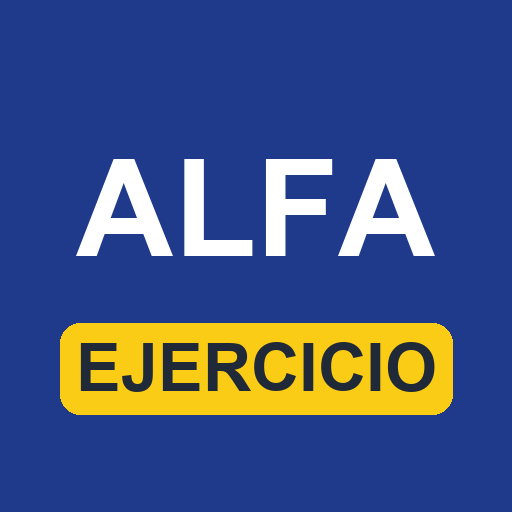
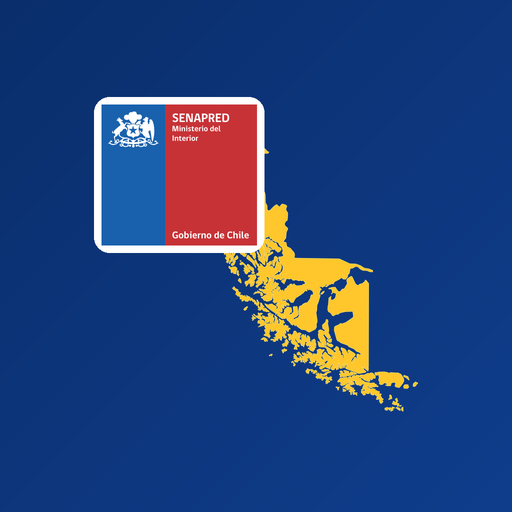
Version demo-0.5.5: reglas revisadas por la Direccion Regional, correlativo por anio, nombre Informe Alfa App e icono nuevo

diff --git a/js/app.js b/js/app.js
@@ -79,6 +79,7 @@
       version: CONFIG.version_app,
       modo: 'ejercicio',
       numero: null,
+      anio: null,
       amplia: null,
       creado: new Date().toISOString(),
       elaborador: cr ? { nivel: cr.nivel, provincia: cr.provincia || '' } : { nivel: '', provincia: '' },
@@ -137,6 +138,7 @@
     if (inf.amplia === undefined) inf.amplia = null;
     if (inf.firmante === undefined) inf.firmante = null;
     if (inf.sello === undefined) inf.sello = null;
+    if (inf.anio === undefined) inf.anio = null;
     inf.responsable = Object.assign({ nombre: CONFIG.responsable_ejercicio.nombre, cargo: '', institucion: '' }, inf.responsable || {});
     actualizarProvincia(inf);
     actualizarResponsable(inf);
@@ -161,8 +163,8 @@
   function guardar() { if (informe && !informe.elaboracion) Almacen.guardarBorrador(informe); }
 
   // ---------- numeración ----------
-  function siguienteLetra(base) {
-    const usadas = Almacen.leerHistorial().filter(h => h.numero && h.numero.startsWith(base + '-')).map(h => h.numero.slice(base.length + 1));
+  function siguienteLetra(base, anio) {
+    const usadas = Almacen.leerHistorial().filter(h => h.numero && h.numero.startsWith(base + '-') && (!anio || anioDe(h) === anio)).map(h => h.numero.slice(base.length + 1));
     let i = 0;
     while (i < LETRAS.length - 1 && usadas.includes(LETRAS[i])) i++;
     return LETRAS[i];
@@ -172,12 +174,22 @@
   // evento o de la misma comuna pueden haberse emitido desde la planilla o desde otro teléfono.
   const PREFIJO = () => CONFIG.numero.prefijo;
   const digitosDe = numero => { const m = /-(\d+)(?:-[A-Z])?$/.exec(String(numero || '')); return m ? parseInt(m[1], 10) : null; };
+  // El correlativo se reinicia cada año y no lleva el año (D-53): cada informe guarda el año de su correlativo.
+  // Un informe nuevo toma el año de hoy; una ampliación hereda el del informe base aunque su fecha sea del año siguiente.
+  const anioActual = () => new Date().getFullYear();
+  const anioDe = inf => (inf && inf.anio) || (inf && inf.elaboracion && inf.elaboracion.fecha ? parseInt(String(inf.elaboracion.fecha).slice(0, 4), 10) : null);
+  function anioElegido() {
+    if (informe.amplia && informe.amplia.externa) { const a = parseInt(informe.numeroManual && informe.numeroManual.anio, 10); return Number.isInteger(a) ? a : anioActual(); }
+    if (informe.amplia && informe.anio) return informe.anio;
+    return anioActual();
+  }
   function propuestaNumero() {
+    const anio = anioElegido();
     if (informe.amplia && informe.amplia.base) {
-      return { n: digitosDe(informe.amplia.base), letra: siguienteLetra(informe.amplia.base), baseFija: !informe.amplia.externa };
+      return { n: digitosDe(informe.amplia.base), letra: siguienteLetra(informe.amplia.base, anio), baseFija: !informe.amplia.externa, anio };
     }
-    const n = digitosDe(Almacen.numeroPrevisto(PREFIJO()));
-    return { n, letra: informe.amplia ? siguienteLetra(`${PREFIJO()}-${n}`) : null, baseFija: false };
+    const n = digitosDe(Almacen.numeroPrevisto(PREFIJO(), anio));
+    return { n, letra: informe.amplia ? siguienteLetra(`${PREFIJO()}-${n}`, anio) : null, baseFija: false, anio };
   }
   function numeroPropuestoTexto(p) { return `${PREFIJO()}-${p.n}${informe.amplia ? '-' + (p.letra || 'A') : ''}`; }
   function numeroElegido() {
@@ -192,7 +204,9 @@
     const e = numeroElegido();
     if (!e.numero) { toast('Escribe el número del informe: un entero mayor que cero.', 5000); return null; }
     if (informe.amplia && !/^[A-Z]$/.test(e.letra)) { toast('Elige la letra de la ampliación.', 5000); return null; }
-    if (Almacen.leerHistorial().some(h => h.numero === e.numero)) { toast(`Ya existe el informe ${e.numero} en este teléfono. Usa otro número o letra.`, 7000); return null; }
+    const anio = anioElegido();
+    if (informe.amplia && informe.amplia.externa && !(anio >= 2000 && anio <= 2100)) { toast('Escribe el año del informe que amplías, con cuatro cifras.', 5000); return null; }
+    if (Almacen.leerHistorial().some(h => h.numero === e.numero && anioDe(h) === anio)) { toast(`Ya existe el informe ${e.numero} del año ${anio} en este teléfono. Usa otro número o letra.`, 7000); return null; }
     const propuesto = numeroPropuestoTexto(propuestaNumero());
     if (e.numero !== propuesto && !(informe.amplia && informe.amplia.externa)) {
       if (!confirm(`El número propuesto era ${propuesto} y vas a usar ${e.numero}.\n\nHazlo solo si ese número corresponde a la numeración real de tu institución, por ejemplo porque otros Alfas se emitieron desde la planilla o desde otro teléfono.\n\n¿Continuar con ${e.numero}?`)) return null;
@@ -431,11 +445,12 @@
     }
     if (el.id === 'in-amplia-externa') {
       if (el.checked) {
-        informe.amplia = { de: '', base: '', fecha: null, hora: null, anterior: null, externa: true };
-        informe.numeroManual = { n: informe.numeroManual ? informe.numeroManual.n : null, letra: 'A' };
+        informe.amplia = { de: '', base: '', fecha: null, hora: null, anterior: null, externa: true, anio: anioActual() };
+        informe.numeroManual = { n: informe.numeroManual ? informe.numeroManual.n : null, letra: 'A', anio: anioActual() };
+        informe.anio = anioActual();
       } else {
-        informe.amplia = null;
-        if (informe.numeroManual) informe.numeroManual.letra = null;
+        informe.amplia = null; informe.anio = null;
+        if (informe.numeroManual) { informe.numeroManual.letra = null; delete informe.numeroManual.anio; }
       }
       guardar(); renderRevision(); cargarValores();
       return;
@@ -454,6 +469,11 @@
       informe.amplia.base = Number.isInteger(n) && n > 0 ? `${PREFIJO()}-${n}` : '';
       informe.amplia.de = informe.amplia.base;
     }
+    if (ruta === 'numeroManual.anio' && informe.amplia && informe.amplia.externa) {  // y el año del correlativo también
+      const a = parseInt(v, 10);
+      informe.amplia.anio = Number.isInteger(a) ? a : null; informe.anio = informe.amplia.anio;
+    }
+    if ((ruta === 'numeroManual.n' || ruta === 'numeroManual.anio') && pantalla === 'revision') refrescarObservaciones();
     if (ruta === 'evento.otro') actualizarSeleccionEvento();
     if (ruta === 'lugar.lat' || ruta === 'lugar.lon') { informe.lugar.origen = 'manual'; informe.lugar.precision = null; $('#gps-estado').textContent = 'Coordenadas escritas a mano.'; }
     if (ruta.endsWith('.hayAlbergue')) { const bloque = $(`[data-albergue="${ruta.split('.')[1]}"]`); if (bloque) bloque.hidden = !v; }
@@ -761,6 +781,14 @@
       <p class="ayuda">En el PDF, los valores que cambiaron en las secciones 4 y 5 van subrayados y la lista de cambios se imprime en Observaciones.</p></section>`;
   }
 
+  // Vuelve a dibujar solo la sección 9 de la revisión, cuando cambian datos que se reflejan en Observaciones
+  function refrescarObservaciones() {
+    const sec = $$('#revision-contenido .rev-seccion').find(s => { const h = s.querySelector('h3'); return h && h.textContent.startsWith('9. Observaciones'); });
+    if (!sec) return;
+    const S = Reglas.textosSecciones(informe, CONFIG);
+    sec.innerHTML = '<h3>9. Observaciones</h3>' + (S.observaciones.length ? S.observaciones.map(x => `<p>${esc(x)}</p>`).join('') : '<p class="vacio">sin indicar</p>');
+  }
+
   // Número del informe: propuesto por el teléfono y editable (número y, en ampliaciones, letra)
   function seccionNumero() {
     const p = propuestaNumero();
@@ -768,6 +796,8 @@
     if (informe.amplia && !informe.numeroManual.letra) informe.numeroManual.letra = p.letra || 'A';
     const esAmpliacion = !!informe.amplia;
     const desdeHistorial = esAmpliacion && !informe.amplia.externa;
+    const externa = esAmpliacion && !!informe.amplia.externa;
+    if (externa && !informe.numeroManual.anio) informe.numeroManual.anio = anioActual();
     const letras = LETRAS.split('').map(l => `<option value="${l}">${l}</option>`).join('');
     return `<section class="rev-seccion numero"><h3>Número del informe</h3>
       ${desdeHistorial ? `<p>Ampliación de <strong>${esc(informe.amplia.de)}</strong>${informe.amplia.fecha ? ' (del ' + esc(fmtFecha(informe.amplia.fecha)) + ' ' + esc(informe.amplia.hora || '') + ')' : ''}. El número base es el del informe que amplías; elige la letra.</p>` : ''}
@@ -776,9 +806,11 @@
         <input type="number" min="1" step="1" inputmode="numeric" data-ruta="numeroManual.n" ${desdeHistorial ? 'disabled' : ''} aria-label="Número del informe">
         ${esAmpliacion ? `<span class="prefijo">-</span><select data-ruta="numeroManual.letra" aria-label="Letra de la ampliación">${letras}</select>` : ''}
       </div>
-      <p class="ayuda">Propuesto por este teléfono: <strong>${esc(numeroPropuestoTexto(p))}</strong>. Cámbialo solo si ese número ya se usó en un Alfa emitido desde la planilla o desde otro teléfono. Al firmar, la app comprueba que no exista en este teléfono y ajusta su contador.</p>
+      <p class="ayuda">Propuesto por este teléfono: <strong>${esc(numeroPropuestoTexto(p))}</strong>, correlativo del año ${esc(p.anio)}. Cámbialo solo si ese número ya se usó en un Alfa emitido desde la planilla o desde otro teléfono. Al firmar, la app comprueba que no exista en este teléfono para ese año y ajusta su contador. El correlativo se reinicia cada año y no lleva el año: el informe se identifica por su fecha.</p>
       ${desdeHistorial ? '' : `<label class="conmutador"><input type="checkbox" id="in-amplia-externa" ${esAmpliacion ? 'checked' : ''}><span>Es ampliación de un informe anterior que no está en este teléfono (por ejemplo, hecho en la planilla)</span></label>
-      ${esAmpliacion ? '<p class="ayuda">Escribe arriba el número del informe que amplías y elige la letra que corresponde. El PDF dirá que es una ampliación de ese informe.</p>' : ''}`}
+      ${esAmpliacion ? `<p class="ayuda">Escribe arriba el número del informe que amplías y elige la letra que corresponde. El PDF dirá que es una ampliación de ese informe.</p>
+      <label class="campo campo-anio">Año del informe que amplías<input type="number" min="2000" max="2100" step="1" inputmode="numeric" data-ruta="numeroManual.anio"></label>
+      <p class="ayuda">Si el evento empezó el año pasado, pon ese año: la ampliación conserva el correlativo del año en que empezó.</p>` : ''}`}
       <p class="ayuda">Al firmar, la app vuelve a comprobar todas las reglas y genera el PDF en este dispositivo. Si hay mucho texto, la hoja se alarga hacia abajo.</p></section>`;
   }
 
@@ -885,8 +917,9 @@
     try {
       informe.elaboracion = { fecha: hoyISO(), hora: ahoraHHMM(), iso: new Date().toISOString() };
       informe.numero = numeroDefinitivo;
-      if (informe.amplia && informe.amplia.externa) { informe.amplia.base = `${PREFIJO()}-${numeroElegido().n}`; informe.amplia.de = informe.amplia.base; }
-      Almacen.ajustarCorrelativo(numeroElegido().n);
+      informe.anio = anioElegido();
+      if (informe.amplia && informe.amplia.externa) { informe.amplia.base = `${PREFIJO()}-${numeroElegido().n}`; informe.amplia.de = informe.amplia.base; informe.amplia.anio = informe.anio; }
+      Almacen.ajustarCorrelativo(numeroElegido().n, informe.anio);
       delete informe.numeroManual;   // es un dato de la pantalla, no del informe
       await sellarInforme(informe, cred);
       ultimoDatos = DatosAlfa.construir(informe, Reglas.totales(informe), CONFIG);
@@ -897,6 +930,7 @@
     } catch (e) {
       console.error(e);
       informe.elaboracion = null; informe.sello = null; informe.numero = null; informe.numeroManual = manual;
+      if (!(informe.amplia && !informe.amplia.externa)) informe.anio = null;
       toast('No se pudo generar el PDF: ' + e.message, 7000);
       btn.disabled = false; btn.textContent = 'Firmar y generar el PDF';
     }
@@ -1048,6 +1082,7 @@
     if (anterior.amplia) delete anterior.amplia.anterior;  // solo un nivel hacia atrás
     copia.amplia = { de: h.numero, base: h.amplia && h.amplia.base ? h.amplia.base : h.numero, fecha: h.elaboracion && h.elaboracion.fecha, hora: h.elaboracion && h.elaboracion.hora, anterior };
     copia.numero = null;
+    copia.anio = anioDe(h);   // la ampliación conserva el correlativo del año en que empezó el evento
     copia.elaboracion = null;
     copia.firmante = null;
     copia.sello = null;
@@ -1107,6 +1142,7 @@
       if (h !== obj.huella) { toast('No se pudo importar: el archivo fue modificado después de generarse (la huella no coincide).', 8000); return; }
       const inf = normalizar(obj.informe);
       if (!inf.elaboracion || !inf.numero) { toast('El archivo no corresponde a un informe firmado.', 6000); return; }
+      if (!inf.anio) inf.anio = anioDe(inf);   // informes de versiones anteriores a la 0.5.5
       inf.importado = { fecha: new Date().toISOString(), app: obj.app || '' };
       const hist = Almacen.leerHistorial();
       const idx = hist.findIndex(x => x.numero === inf.numero);

diff --git a/js/datos_alfa.js b/js/datos_alfa.js
@@ -42,8 +42,10 @@
     const cut = c => { const x = ((config && config.comunas) || []).find(k => k.comuna === c); return x ? x.cut : null; };
     const num = v => (v === '' || v == null) ? null : (Number.isFinite(Number(String(v).replace(',', '.'))) ? Number(String(v).replace(',', '.')) : null);
     const base = informe.amplia && informe.amplia.base ? informe.amplia.base : informe.numero;
+    const E0 = informe.elaboracion || {};
+    const anioCorr = informe.anio || (E0.fecha ? parseInt(String(E0.fecha).slice(0, 4), 10) : null);   // el correlativo se reinicia cada año (D-53)
     const evento = {
-      id_evento: base, region: id.region || '', provincia: id.provincia || '',
+      id_evento: base, anio_correlativo: anioCorr, region: id.region || '', provincia: id.provincia || '',
       comunas: comunas.map(c => ({ comuna: c, cut: cut(c) })),
       tipo_evento: ev.tipo || '', tipo_evento_otro: ev.otro || '',
       fecha_inicio: oc.fecha || '', hora_inicio: oc.hora || '',
@@ -51,7 +53,7 @@
     };
     const R = informe.responsable || {}, E = informe.elaboracion || {};
     const inf = {
-      numero: informe.numero, id_evento: base,
+      numero: informe.numero, id_evento: base, anio_correlativo: anioCorr,
       letra: informe.amplia && informe.numero ? String(informe.numero).slice(String(base).length + 1) : '',
       amplia_de: informe.amplia ? informe.amplia.de : null,
       modo: informe.modo || 'ejercicio', nivel_elaborador: (informe.elaborador && informe.elaborador.nivel) || '',
@@ -158,7 +160,8 @@
     const id = inf.identificacion || {}, oc = inf.ocurrencia || {}, ev = inf.evento || {}, R = inf.responsable || {}, E = inf.elaboracion || {};
     const total = k => (t[k] && t[k].total != null) ? t[k].total : null;
     return {
-      numero: inf.numero, modo: inf.modo || archivo.modo || '', comunas: comunasDe(inf).join(', '), provincia: id.provincia || '', region: id.region || '',
+      numero: inf.numero, anio_correlativo: inf.anio || (E.fecha ? parseInt(String(E.fecha).slice(0, 4), 10) : null),
+      modo: inf.modo || archivo.modo || '', comunas: comunasDe(inf).join(', '), provincia: id.provincia || '', region: id.region || '',
       tipo_evento: ev.tipo === 'OTRO' ? ('Otro: ' + texto(ev.otro)) : (ev.tipo || ''),
       fecha_inicio: oc.fecha || '', hora_inicio: oc.hora || '',
       fecha_elaboracion: E.fecha || '', hora_elaboracion: E.hora || '',

diff --git a/js/almacen.js b/js/almacen.js
@@ -4,7 +4,8 @@ const Almacen = (() => {
   'use strict';
   const K = {
     borrador: 'alfaDemo.borrador',
-    correlativo: 'alfaDemo.correlativoEJ',
+    correlativo: 'alfaDemo.correlativoEJ',      // versiones anteriores a la 0.5.5: un solo contador
+    correlativos: 'alfaDemo.correlativos',     // desde la 0.5.5: un contador por año
     historial: 'alfaDemo.historial',
     credencial: 'alfaDemo.credencial'
   };
@@ -28,6 +29,17 @@ const Almacen = (() => {
     }
   }
 
+  const anioHoy = () => new Date().getFullYear();
+  function contadores() {
+    const mapa = leer(K.correlativos, null);
+    if (mapa && typeof mapa === 'object') return mapa;
+    const antiguo = leer(K.correlativo, 0) | 0;   // el contador único de las versiones anteriores vale para el año en curso
+    const nuevo = {};
+    if (antiguo > 0) nuevo[String(anioHoy())] = antiguo;
+    return nuevo;
+  }
+  function contador(anio) { return contadores()[String(anio || anioHoy())] | 0; }
+
   return {
     disponible() {
       try {
@@ -44,10 +56,13 @@ const Almacen = (() => {
 
     // El número se asigna recién al firmar, para que un borrador abandonado no consuma correlativo.
     // El funcionario puede corregir el número propuesto; el contador salta al mayor usado (D-52).
-    numeroPrevisto(prefijo) { return `${prefijo}-${(leer(K.correlativo, 0) | 0) + 1}`; },
-    ajustarCorrelativo(n) {
-      const actual = leer(K.correlativo, 0) | 0;
-      if (Number.isInteger(n) && n > actual) escribir(K.correlativo, n);
+    // Hay un contador por año, porque el correlativo se reinicia cada año (D-53).
+    numeroPrevisto(prefijo, anio) { return `${prefijo}-${contador(anio) + 1}`; },
+    ajustarCorrelativo(n, anio) {
+      const mapa = contadores();
+      const clave = String(anio || anioHoy());
+      const actual = mapa[clave] | 0;
+      if (Number.isInteger(n) && n > actual) { mapa[clave] = n; escribir(K.correlativos, mapa); }
       return Math.max(actual, n | 0);
     },
 

diff --git a/js/reglas.js b/js/reglas.js
@@ -219,6 +219,10 @@ const Reglas = (() => {
       const cambios = cambiosTexto(informe);
       if (cambios) observaciones.push(cambios);
     }
+    // El correlativo se reinicia cada año y no lleva el año; si el informe continúa un evento del año anterior, se aclara (D-53)
+    // Antes de firmar no hay fecha de elaboración: se usa el año de hoy, que es el que tendrá el informe
+    const anioCorr = informe.anio, anioFecha = informe.elaboracion && informe.elaboracion.fecha ? parseInt(String(informe.elaboracion.fecha).slice(0, 4), 10) : new Date().getFullYear();
+    if (anioCorr && anioFecha && anioCorr !== anioFecha) observaciones.push(`Correlativo del año ${anioCorr}: el evento comenzó ese año y este informe lo continúa.`);
     const lugar = lugarTexto(informe);
     if (lugar) observaciones.push(lugar);
     const J = informe.justificaciones || {};
@@ -328,10 +332,9 @@ const Reglas = (() => {
             }
           }
         }
-        if (viv > 0 && occ === 0 && c.ocupantes_cuentan_como === 'damnificadas') hallazgo(regla('SIN_OCUPANTES'), { viviendas: viv, condicion: cond }, { sufijo: c.id });
-        if (viv > 0 && occ / viv > P.umbral_personas_por_vivienda) {
-          hallazgo(regla('PROMEDIO_INUSUAL'), { viviendas: viv, ocupantes: occ, condicion: cond, promedio: (occ / viv).toFixed(1).replace('.', ','), umbral: P.umbral_personas_por_vivienda }, { sufijo: c.id });
-        }
+        // Sin regla para viviendas sin ocupantes ni para el promedio de personas por vivienda (D-54, 2026-10-08):
+        // hay viviendas dañadas o destruidas sin habitantes (abandonadas, dueños ausentes) y viviendas colectivas o
+        // con varias familias. Las dos reglas anteriores se retiraron por indicación de la Dirección Regional.
       }
     }
 

diff --git a/index.html b/index.html
@@ -3,8 +3,8 @@
 <head>
   <meta charset="utf-8">
   <meta name="viewport" content="width=device-width, initial-scale=1, viewport-fit=cover">
-  <title>Informe Alfa – Demo de ejercicio</title>
-  <meta name="description" content="Demo del Sprint 1 de la App Informe Alfa: llenado guiado en modo ejercicio, bloqueo de errores de cuadratura y PDF generado en el teléfono. Sin valor oficial.">
+  <title>Informe Alfa App</title>
+  <meta name="description" content="App Informe Alfa de la Dirección Regional de SENAPRED Magallanes: llenado guiado del Informe Alfa, bloqueo de errores de cuadratura y PDF firmado generado en el teléfono. En modo ejercicio hasta el piloto.">
   <meta name="theme-color" content="#1f3a8a">
   <link rel="manifest" href="manifest.json">
   <link rel="icon" href="img/icono-192.png" type="image/png">
@@ -12,7 +12,7 @@
   <meta name="mobile-web-app-capable" content="yes">
   <meta name="apple-mobile-web-app-capable" content="yes">
   <meta name="apple-mobile-web-app-status-bar-style" content="default">
-  <meta name="apple-mobile-web-app-title" content="Alfa EJ">
+  <meta name="apple-mobile-web-app-title" content="Informe Alfa App">
   <link rel="stylesheet" href="css/estilos.css">
 </head>
 <body>

diff --git a/datos/config.js b/datos/config.js
@@ -1,7 +1,7 @@
 // Archivo generado desde config.json por herramientas/sincronizar_config.py. No editar a mano.
 window.ALFA_CONFIG = {
   "_comentario": "Configuración de la demo (Sprint 1). Esta copia es de ejercicio: no contiene datos de personas. La dirección de destino es un correo de PRUEBA indicado por el responsable del proyecto el 2026-10-05; la dirección real de la URAT no se publica en este repositorio público para no facilitar la suplantación de informes (riesgo R-16 de la arquitectura).",
-  "version_app": "demo-0.5.4",
+  "version_app": "demo-0.5.5",
   "modo": "ejercicio",
   "destinatario": {
     "nombre": "Correo de prueba del responsable del proyecto",

diff --git a/herramientas/verificar.html b/herramientas/verificar.html
@@ -172,6 +172,7 @@
           <div class="banda-ejercicio">${s.modo === 'ejercicio' ? 'INFORME DE EJERCICIO – SIN VALOR OFICIAL' : esc(s.modo)}</div>
           <dl>
             ${fila('Número', s.numero)}
+            ${fila('Correlativo del año', s.anio_correlativo)}
             ${fila('Ampliación de', s.ampliacion_de)}
             ${fila('Comuna(s)', s.comunas)}
             ${fila('Provincia', s.provincia)}

diff --git a/sw.js b/sw.js
@@ -1,6 +1,6 @@
 /* Service worker de la demo: precarga todos los archivos para que la app abra sin señal.
    Para publicar una versión nueva, cambiar VERSION. */
-const VERSION = 'alfa-demo-v0.5.4';
+const VERSION = 'alfa-demo-v0.5.5';
 const ARCHIVOS = [
   './',
   './index.html',

diff --git a/README.md b/README.md
@@ -34,7 +34,7 @@ No contiene datos reales de personas ni de emergencias.
 | `datos/credencial_ejercicio_demo.alfacred.json` | Credencial genérica de ejercicio (versión 2), con identidad e imágenes ficticias y una clave de firma que es pública por estar en este repositorio: sirve para probar, no acredita a nadie. Sellada con la clave de la Dirección Regional |
 | `sw.js` | Service worker: precarga todos los archivos para funcionar sin conexión |
 | `manifest.json` | Datos de instalación (nombre, íconos, colores) |
-| `datos/reglas.json` | Catálogo de elementos del IT-LOG-01, condiciones de vivienda, categorías de personas, organismos de respuesta, tipos de evento, reglas y casos de solución. Versión provisoria |
+| `datos/reglas.json` | Catálogo de elementos del IT-LOG-01 (Anexo N° 8), condiciones de vivienda, categorías de personas, organismos de respuesta, tipos de evento, 13 reglas y casos de solución. Criterios revisados por la Dirección Regional el 2026-10-08; validación con la URAT pendiente (ver `MINUTA_REGLAS_VALIDACION.md` en la carpeta del proyecto) |
 | `datos/config.json` | Configuración: destinatario de prueba, región y comunas, niveles de quien elabora, clave pública de la Dirección Regional para comprobar credenciales |
 | `datos/config.js` | La misma configuración en forma de script, generada por `herramientas/sincronizar_config.py`. La herramienta emisora la usa cuando se abre con doble clic, porque en ese modo el navegador no deja leer archivos JSON. No editar a mano |
 | `datos/plantilla_alfa.json` | Geometría del formato oficial (líneas, rótulos y posición de cada casilla), extraída del PDF de la REX 78 |
@@ -44,7 +44,7 @@ No contiene datos reales de personas ni de emergencias.
 | `lib/Carlito-Regular.ttf`, `lib/Carlito-Bold.ttf` | Tipografía Carlito (SIL OFL 1.1, métrica compatible con Calibri), recortada al alfabeto latino con fontTools y renombrada internamente "CarlitoAlfa" como exige la licencia para versiones modificadas. Se incrusta completa porque el recorte en tiempo de ejecución de pdf-lib dejaba glifos sin dibujar |
 | `img/logo_senapred.png` | Logo institucional, autorizado por el responsable para el formato |
 | `img/portada_mapa.svg` | Mapa de la portada: contorno de la región, Territorio Chileno Antártico y Cruz del Sur, tomados de la portada del Geoportal del Riesgo del mismo departamento y simplificados |
-| `img/` | Firma y timbre ficticios e íconos de la app, generados para la demo |
+| `img/` | Firma y timbre ficticios, e íconos de la app (logo SENAPRED sobre el azul institucional con la silueta de la región en amarillo; versiones de 180, 192 y 512 píxeles y una enmascarable para Android) |
 
 Sin paso de compilación y sin `node_modules`: se publica tal cual en cualquier sitio estático con HTTPS.
 
@@ -63,6 +63,7 @@ Sin paso de compilación y sin `node_modules`: se publica tal cual en cualquier 
 | demo-0.4.1 | 2026-10-07 | Herramienta emisora: funciona abierta con doble clic como archivo local, tomando la configuración de `datos/config.js` cuando el navegador bloquea `config.json` (E-20); el botón para generar una clave nueva queda bajo un desplegable con advertencia explícita y emitir con una clave distinta de la publicada pide confirmación; las imágenes de firma y timbre se reducen a unos 300 KB como máximo (E-21). Sin cambios en la app del teléfono |
 | demo-0.5.0 | 2026-10-07 | Sprint 3, entrega 2: cada informe se comparte con su archivo de datos `.alfa.json` (contenido, huella, firma digital, credencial pública y tablas de la etapa 3); credencial versión 2 con clave de firma del funcionario, con la que el teléfono firma la huella de cada informe; código QR de verificación en el PDF y en la pantalla final, huella en los metadatos del PDF; verificador `herramientas/verificar.html` para la URAT; las ampliaciones muestran los cambios en la revisión, subrayan en el PDF las casillas que cambiaron y los listan en Observaciones; importación de informes de otro teléfono desde su archivo de datos |
 | demo-0.5.1 | 2026-10-07 | Las herramientas auxiliares quedan juntas en `herramientas/`: el verificador se traslada ahí y en la raíz queda solo una redirección para los códigos QR ya generados (D-48). Sin cambios en el flujo de la app |
+| demo-0.5.5 | 2026-10-08 | Reglas revisadas por la Dirección Regional: la app ya no detiene ni pide justificación por viviendas sin ocupantes ni por la cantidad de personas por vivienda; los topes citan el Anexo N° 8 del IT-LOG-01 (D-54). Correlativo por año: contador por año, cada informe guarda el año de su correlativo, los repetidos se comprueban por año y una ampliación conserva el año del evento aunque su fecha sea del año siguiente (D-53). La app pasa a llamarse "Informe Alfa App" y estrena ícono con el logo SENAPRED y la silueta regional |
 | demo-0.5.4 | 2026-10-08 | El número del informe se propone y se puede corregir antes de firmar: número editable y, en ampliaciones, letra editable; no se admite un número que ya exista en el teléfono; cambiar el propuesto pide confirmación; el contador salta al mayor usado; un informe puede marcarse como ampliación de un Alfa que no está en el teléfono, por ejemplo hecho en la planilla (D-52) |
 | demo-0.5.3 | 2026-10-08 | Portada al abrir la app con la línea estética del Geoportal del Riesgo: fondo azul, mapa de la región con el territorio antártico y la Cruz del Sur, título, etiquetas y botón "Entrar a la app"; se cierra con el botón, al tocar o sola a los 5 segundos, una vez por apertura; el color de arranque de la app instalada pasa al mismo azul (D-50) |
 | demo-0.5.2 | 2026-10-07 | Los datos del informe viajan incorporados dentro del PDF como adjunto estándar (D-49); "Compartir" vuelve a compartir solo el PDF, porque Chrome para Android rechaza los archivos `.json` en el menú de compartir aunque antes diga que sí (E-22); el verificador y la importación leen los datos desde el PDF; aviso para no compartir desde el visor de "Ver el PDF" |
